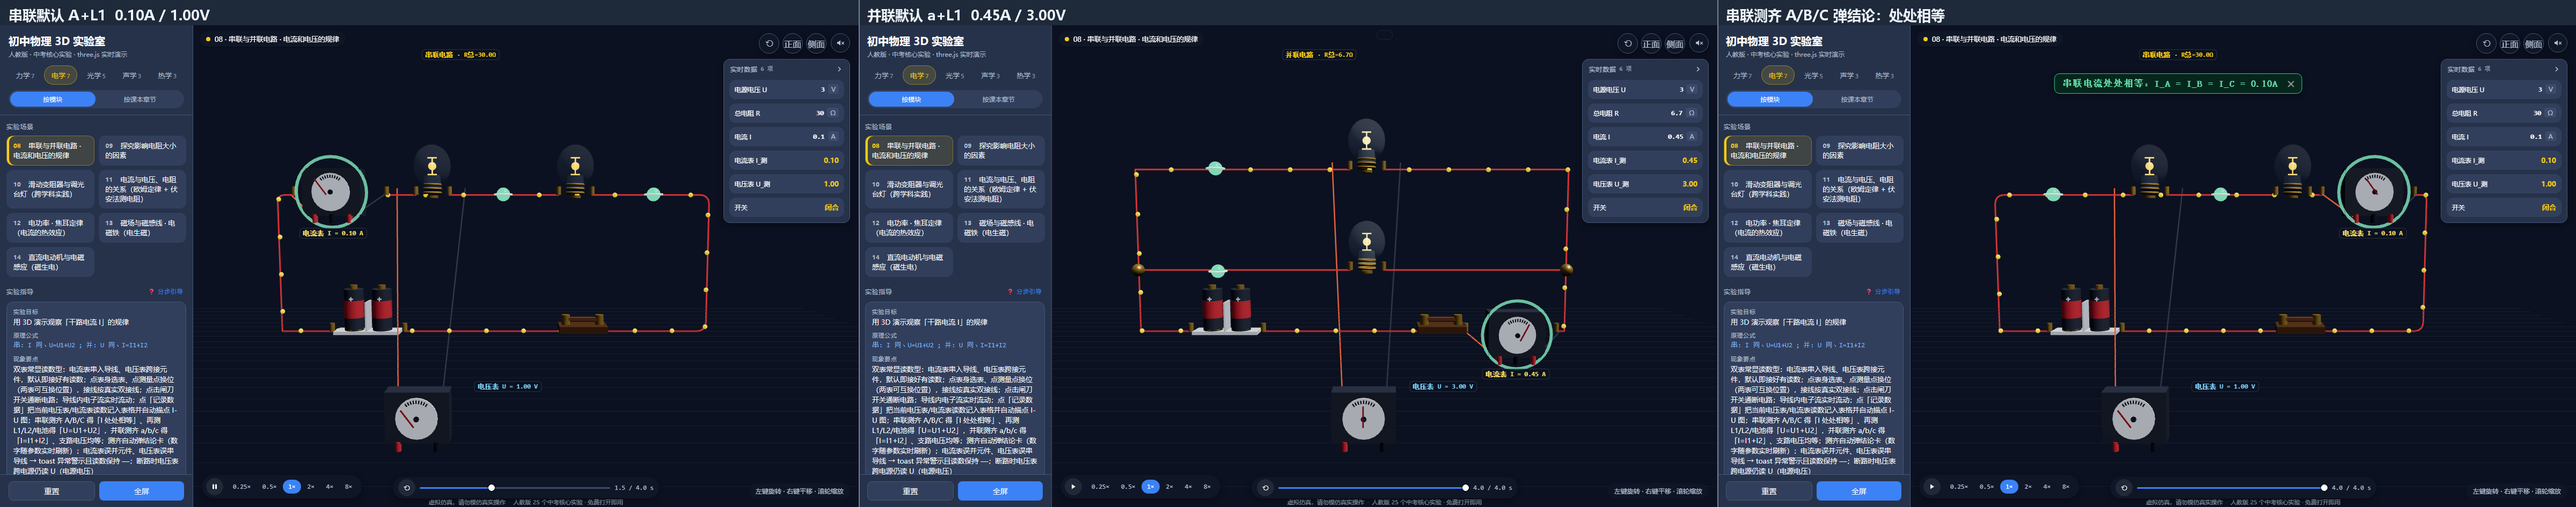
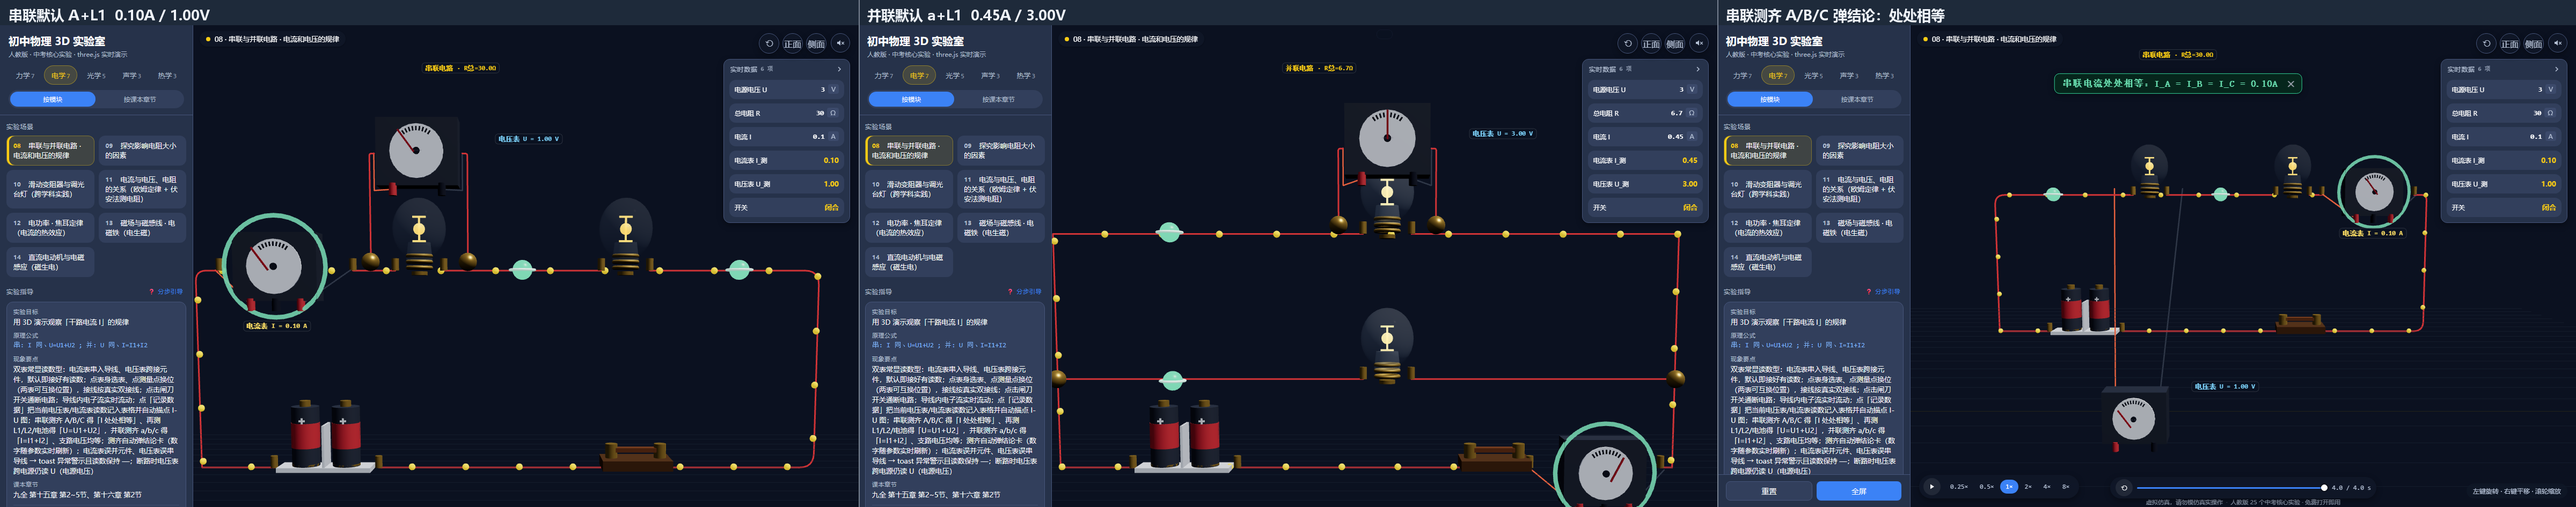
D1(08) voltmeter plane-parallel branch over measured element (spec s13); branch-gap wiring, per-slot clearance; junction dots instanced to keep 60-call budget; probe 73 OK (4 bench asserts pending CEO branch asserts); regress ERRORS 0; ui-probe 115/115; verify-release PASS

diff --git a/docs/app/exp/electricity.js b/docs/app/exp/electricity.js
@@ -242,16 +242,33 @@ const D1 = {
     return { amp: mk('amp'), vol: mk('vol') };
   },
   /* ---------- 仪表摆位与引线 ---------- */
+  // 电压表并联支路几何（规格 §13）：与被测元件同竖直面(z≈0)，正上方矩形支路，表体坐进水平缺口
+  _volBranch(slot) {
+    if (slot !== 'L1' && slot !== 'L2' && slot !== 'batt') return null;
+    let ex, ny, half;
+    if (slot === 'batt') {
+      const b = this.battG.position;
+      ex = b.x; ny = 1.54; half = 0.46;
+    } else {
+      const g = slot === 'L1' ? this.bulb1G : this.bulb2G;
+      ex = g.position.x; ny = g.position.y + 0.06; half = 0.40;
+    }
+    // 抬高量：L1/L2 玻璃泡顶部约高出引线 0.58，表体半高 0.27；串联两槽与并联下支路用 0.88 保证表体与
+    // 下方灯泡可见空隙；并联上支路（L1，y≈3.0，上方还有顶栏「R总」标签）降为 0.62 并靠 z 前移避让
+    // （见 _slotPos）；电池槽 0.62。并联下支路（L2 表体正下方是 L2、正上方是 L1）空间不足，表体 z 微前移。
+    const lift = slot === 'batt' ? 0.62 : (this.p.mode === 'parallel' && slot === 'L1' ? 0.62 : 0.88);
+    return { ex, ny, half, gap: 0.36, bodyX: ex, bodyY: ny + lift, bodyZ: 0 };
+  },
   _slotPos(slot) {
     if (!slot) return null;
     const c = this._slotC(slot);
     if (c) return { bodyX: c.cx, bodyY: c.y + 0.02, bodyZ: 0.22, ends: [new THREE.Vector3(c.cx - 0.55, c.y, 0.1), new THREE.Vector3(c.cx + 0.55, c.y, 0.1)] };
-    if (slot === 'batt') {
-      const b = this.battG.position;
-      return { bodyX: b.x, bodyY: 0.34, bodyZ: 1.10, ends: [new THREE.Vector3(b.x - 0.46, 1.54, 0.1), new THREE.Vector3(b.x + 0.46, 1.54, 0.1)] };
-    }
-    const g = slot === 'L1' ? this.bulb1G : this.bulb2G;
-    return { bodyX: g.position.x, bodyY: 0.34, bodyZ: 1.10, ends: [new THREE.Vector3(g.position.x - 0.40, g.position.y + 0.06, 0.1), new THREE.Vector3(g.position.x + 0.40, g.position.y + 0.06, 0.1)] };
+    const br = this._volBranch(slot);
+    if (br) // 并联 L1 槽（表体上方是顶栏「R总」标签）与并联 L2 槽（正下方 L2、正上方 L1）空间不足，表体 z 微前移避让
+    if (this.p.mode === 'parallel' && slot === 'L2') return { bodyX: br.bodyX, bodyY: br.bodyY, bodyZ: 0.30, branch: true, ends: [new THREE.Vector3(br.ex - br.gap, br.bodyY, 0.02), new THREE.Vector3(br.ex + br.gap, br.bodyY, 0.02)] };
+    if (this.p.mode === 'parallel' && slot === 'L1') return { bodyX: br.bodyX, bodyY: br.bodyY, bodyZ: 0.30, branch: true, ends: [new THREE.Vector3(br.ex - br.gap, br.bodyY, 0.02), new THREE.Vector3(br.ex + br.gap, br.bodyY, 0.02)] };
+    return { bodyX: br.bodyX, bodyY: br.bodyY, bodyZ: 0, branch: true, ends: [new THREE.Vector3(br.ex - br.gap, br.bodyY, 0.02), new THREE.Vector3(br.ex + br.gap, br.bodyY, 0.02)] };
+    return null;
   },
   _layoutMeters() {
     ['amp', 'vol'].forEach(which => {
@@ -265,8 +282,17 @@ const D1 = {
       const pair = this.probes[which];
       const postA = new THREE.Vector3(sp.bodyX - 0.198, sp.bodyY - 0.30, sp.bodyZ + 0.09);
       const postB = new THREE.Vector3(sp.bodyX + 0.198, sp.bodyY - 0.30, sp.bodyZ + 0.09);
-      setFatLine(pair[0], [postA, sp.ends[0]]);
-      setFatLine(pair[1], [postB, sp.ends[1]]);
+      if (sp.branch) {
+        // 并联支路：缺口端点沿表体外侧向下、再横向接表底接线柱（短接线，不另画长表笔）
+        const hookY = sp.bodyY - 0.30;
+        const hookA = new THREE.Vector3(sp.bodyX - 0.36, hookY, 0.02);
+        const hookB = new THREE.Vector3(sp.bodyX + 0.36, hookY, 0.02);
+        setFatLine(pair[0], [postA, hookA, sp.ends[0]]);
+        setFatLine(pair[1], [postB, hookB, sp.ends[1]]);
+      } else {
+        setFatLine(pair[0], [postA, sp.ends[0]]);
+        setFatLine(pair[1], [postB, sp.ends[1]]);
+      }
       pair.forEach(l => { l.visible = true; });
       if (which === 'amp') this.ampLeadEnds = sp.ends; else this.volLeadEnds = sp.ends;
       if (which === 'vol') label.position.set(sp.bodyX + 0.90, sp.bodyY + 0.06, 0.3);  // 电压表读数放表体右侧，避开灯泡光晕与表盘
@@ -472,6 +498,22 @@ const D1 = {
         const dot = new THREE.Mesh(new THREE.SphereGeometry(0.075, 16, 12), MATS.brass());
         dot.position.set(jx, jy, 0.02); this.junctions.push(dot); this.scene.add(dot);
       });
+    }
+    // 电压表并联支路（规格 §13）：主wire两节点竖直向上，水平段在表体处真实断开，表体坐进缺口
+    const vb = (!this.volError) ? this._volBranch(this.volSlot) : null;
+    if (vb) {
+      segs.push([[vb.ex - vb.half, vb.ny], [vb.ex - vb.half, vb.bodyY], [vb.ex - vb.gap, vb.bodyY]]);
+      segs.push([[vb.ex + vb.gap, vb.bodyY], [vb.ex + vb.half, vb.bodyY], [vb.ex + vb.half, vb.ny]]);
+      // 两个支路节点球合并为单个 InstancedMesh（2 实例 = 1 次绘制调用，压低整体调用数）
+      const dotGeo = new THREE.SphereGeometry(0.075, 16, 12);
+      const im = new THREE.InstancedMesh(dotGeo, MATS.brass(), 2);
+      const mm = new THREE.Matrix4();
+      [vb.ex - vb.half, vb.ex + vb.half].forEach((jx, i) => {
+        mm.makeTranslation(jx, vb.ny, 0.02);
+        im.setMatrixAt(i, mm);
+      });
+      im.instanceMatrix.needsUpdate = true;
+      this.junctions.push(im); this.scene.add(im);
     }
     segs.forEach(pts => {
       const w = fatLine(this._roundedPath(pts, 0.12), WIRE, 3);

diff --git a/release/physics-3d-lab/exp/electricity.js b/release/physics-3d-lab/exp/electricity.js
@@ -242,16 +242,33 @@ const D1 = {
     return { amp: mk('amp'), vol: mk('vol') };
   },
   /* ---------- 仪表摆位与引线 ---------- */
+  // 电压表并联支路几何（规格 §13）：与被测元件同竖直面(z≈0)，正上方矩形支路，表体坐进水平缺口
+  _volBranch(slot) {
+    if (slot !== 'L1' && slot !== 'L2' && slot !== 'batt') return null;
+    let ex, ny, half;
+    if (slot === 'batt') {
+      const b = this.battG.position;
+      ex = b.x; ny = 1.54; half = 0.46;
+    } else {
+      const g = slot === 'L1' ? this.bulb1G : this.bulb2G;
+      ex = g.position.x; ny = g.position.y + 0.06; half = 0.40;
+    }
+    // 抬高量：L1/L2 玻璃泡顶部约高出引线 0.58，表体半高 0.27；串联两槽与并联下支路用 0.88 保证表体与
+    // 下方灯泡可见空隙；并联上支路（L1，y≈3.0，上方还有顶栏「R总」标签）降为 0.62 并靠 z 前移避让
+    // （见 _slotPos）；电池槽 0.62。并联下支路（L2 表体正下方是 L2、正上方是 L1）空间不足，表体 z 微前移。
+    const lift = slot === 'batt' ? 0.62 : (this.p.mode === 'parallel' && slot === 'L1' ? 0.62 : 0.88);
+    return { ex, ny, half, gap: 0.36, bodyX: ex, bodyY: ny + lift, bodyZ: 0 };
+  },
   _slotPos(slot) {
     if (!slot) return null;
     const c = this._slotC(slot);
     if (c) return { bodyX: c.cx, bodyY: c.y + 0.02, bodyZ: 0.22, ends: [new THREE.Vector3(c.cx - 0.55, c.y, 0.1), new THREE.Vector3(c.cx + 0.55, c.y, 0.1)] };
-    if (slot === 'batt') {
-      const b = this.battG.position;
-      return { bodyX: b.x, bodyY: 0.34, bodyZ: 1.10, ends: [new THREE.Vector3(b.x - 0.46, 1.54, 0.1), new THREE.Vector3(b.x + 0.46, 1.54, 0.1)] };
-    }
-    const g = slot === 'L1' ? this.bulb1G : this.bulb2G;
-    return { bodyX: g.position.x, bodyY: 0.34, bodyZ: 1.10, ends: [new THREE.Vector3(g.position.x - 0.40, g.position.y + 0.06, 0.1), new THREE.Vector3(g.position.x + 0.40, g.position.y + 0.06, 0.1)] };
+    const br = this._volBranch(slot);
+    if (br) // 并联 L1 槽（表体上方是顶栏「R总」标签）与并联 L2 槽（正下方 L2、正上方 L1）空间不足，表体 z 微前移避让
+    if (this.p.mode === 'parallel' && slot === 'L2') return { bodyX: br.bodyX, bodyY: br.bodyY, bodyZ: 0.30, branch: true, ends: [new THREE.Vector3(br.ex - br.gap, br.bodyY, 0.02), new THREE.Vector3(br.ex + br.gap, br.bodyY, 0.02)] };
+    if (this.p.mode === 'parallel' && slot === 'L1') return { bodyX: br.bodyX, bodyY: br.bodyY, bodyZ: 0.30, branch: true, ends: [new THREE.Vector3(br.ex - br.gap, br.bodyY, 0.02), new THREE.Vector3(br.ex + br.gap, br.bodyY, 0.02)] };
+    return { bodyX: br.bodyX, bodyY: br.bodyY, bodyZ: 0, branch: true, ends: [new THREE.Vector3(br.ex - br.gap, br.bodyY, 0.02), new THREE.Vector3(br.ex + br.gap, br.bodyY, 0.02)] };
+    return null;
   },
   _layoutMeters() {
     ['amp', 'vol'].forEach(which => {
@@ -265,8 +282,17 @@ const D1 = {
       const pair = this.probes[which];
       const postA = new THREE.Vector3(sp.bodyX - 0.198, sp.bodyY - 0.30, sp.bodyZ + 0.09);
       const postB = new THREE.Vector3(sp.bodyX + 0.198, sp.bodyY - 0.30, sp.bodyZ + 0.09);
-      setFatLine(pair[0], [postA, sp.ends[0]]);
-      setFatLine(pair[1], [postB, sp.ends[1]]);
+      if (sp.branch) {
+        // 并联支路：缺口端点沿表体外侧向下、再横向接表底接线柱（短接线，不另画长表笔）
+        const hookY = sp.bodyY - 0.30;
+        const hookA = new THREE.Vector3(sp.bodyX - 0.36, hookY, 0.02);
+        const hookB = new THREE.Vector3(sp.bodyX + 0.36, hookY, 0.02);
+        setFatLine(pair[0], [postA, hookA, sp.ends[0]]);
+        setFatLine(pair[1], [postB, hookB, sp.ends[1]]);
+      } else {
+        setFatLine(pair[0], [postA, sp.ends[0]]);
+        setFatLine(pair[1], [postB, sp.ends[1]]);
+      }
       pair.forEach(l => { l.visible = true; });
       if (which === 'amp') this.ampLeadEnds = sp.ends; else this.volLeadEnds = sp.ends;
       if (which === 'vol') label.position.set(sp.bodyX + 0.90, sp.bodyY + 0.06, 0.3);  // 电压表读数放表体右侧，避开灯泡光晕与表盘
@@ -472,6 +498,22 @@ const D1 = {
         const dot = new THREE.Mesh(new THREE.SphereGeometry(0.075, 16, 12), MATS.brass());
         dot.position.set(jx, jy, 0.02); this.junctions.push(dot); this.scene.add(dot);
       });
+    }
+    // 电压表并联支路（规格 §13）：主wire两节点竖直向上，水平段在表体处真实断开，表体坐进缺口
+    const vb = (!this.volError) ? this._volBranch(this.volSlot) : null;
+    if (vb) {
+      segs.push([[vb.ex - vb.half, vb.ny], [vb.ex - vb.half, vb.bodyY], [vb.ex - vb.gap, vb.bodyY]]);
+      segs.push([[vb.ex + vb.gap, vb.bodyY], [vb.ex + vb.half, vb.bodyY], [vb.ex + vb.half, vb.ny]]);
+      // 两个支路节点球合并为单个 InstancedMesh（2 实例 = 1 次绘制调用，压低整体调用数）
+      const dotGeo = new THREE.SphereGeometry(0.075, 16, 12);
+      const im = new THREE.InstancedMesh(dotGeo, MATS.brass(), 2);
+      const mm = new THREE.Matrix4();
+      [vb.ex - vb.half, vb.ex + vb.half].forEach((jx, i) => {
+        mm.makeTranslation(jx, vb.ny, 0.02);
+        im.setMatrixAt(i, mm);
+      });
+      im.instanceMatrix.needsUpdate = true;
+      this.junctions.push(im); this.scene.add(im);
     }
     segs.forEach(pts => {
       const w = fatLine(this._roundedPath(pts, 0.12), WIRE, 3);

diff --git a/release/physics-3d-lab/sw.js b/release/physics-3d-lab/sw.js
@@ -1,5 +1,5 @@
 /* Service Worker：整站本地缓存 —— 打开过一次后，全部资源走本地缓存，秒开、断网也能用。
- * 版本号 854c6c4 由 tools/make-release.ps1 在发布时替换为 git 短哈希：
+ * 版本号 4f5125a 由 tools/make-release.ps1 在发布时替换为 git 短哈希：
  * 每次发布自动换缓存名；新 SW 安装完成后清掉旧缓存，保证新旧版本绝不混用。
  * 策略（为发布一致性 + 跨境提速而设计）：
  *   - 安装：容错 precache 核心清单（某项失败不影响整体安装），skipWaiting 立即接管
@@ -8,7 +8,7 @@
  *     「新 HTML + 旧 JS」的混合状态（发布后第一次打开仍是旧版，刷新一次即新版）
  *   - 其他同源 GET：cache-first，miss 才走网络并写入缓存
  */
-const VERSION = '854c6c4';
+const VERSION = '4f5125a';
 const CACHE = 'phlab-' + VERSION;
 
 const PRECACHE = [

diff --git a/release/physics-3d-lab/index.html b/release/physics-3d-lab/index.html
@@ -4,7 +4,7 @@
 <meta charset="utf-8">
 <meta name="viewport" content="width=device-width, initial-scale=1">
 <title>初中物理 3D 可视化实验室</title>
-<meta name="build-version" content="854c6c4">
+<meta name="build-version" content="4f5125a">
 <link rel="icon" href="data:,">
 <script type="importmap">
 { "imports": { "three": "./vendor/three.module.js", "three/addons/": "./vendor/addons/" } }

diff --git a/docs/design/D1-08-重做规格.md b/docs/design/D1-08-重做规格.md
@@ -149,3 +149,17 @@ tapPoint(id) / selectMeter('amp'|'vol')       // 保留旧语义
 ## 12. 不做
 
 - 不动其他实验、不改全站布局/主题、不加登录、不用 CDN；不改 D1 的 duration/粒子动画逻辑（duration=4 保留）。
+
+## 13. 增补：电压表改「并联支路」画法（复刻参考平面图，用户 2026-11-26 两张对照图）
+
+背景：参考站平面图里电压表不是孤零零立在灯泡上方、也不是放到台面拉长引线，而是在被测元件正上方画一个**矩形并联支路**：主导线在元件左右各有一个节点，支路从节点竖直向上→水平经过电压表→竖直向下回到另一节点。用户要求把这套平面拓扑复刻成 3D。**取代**上一轮「表体落前方台面（bodyY=0.34, bodyZ=1.10）+ 长引线」方案。
+
+1. 电压表接 L1/L2/batt 时，在与主电路同一竖直面（z≈0）内、被测元件正上方画矩形并联支路：
+   - 主wire节点：元件左右接点（L1/L2 用现有 ends=(ex±0.40, ey+0.06)；batt 用 (bx±0.46, 1.54)），节点画现有黄色实心连接点。
+   - 支路：左节点竖直向上 0.62 → 水平段在电压表处**真实断开**（缺口半宽 0.36，表体宽 0.66 坐进缺口）→ 右端竖直向下回右节点。全部横平竖直、统一圆角，与主wire同色同粗。
+   - 表体中心 = (ex, 节点y+0.62, 0)；两接线柱接缺口左右两端（复用 postA/postB→ends 机制，ends 改为缺口端点），**不再另画表笔引线**。
+2. 电压表不在该槽时不画支路；元件本体仍可点选。电流槽 A/B/C/a/b/c 的串入式画法一律不动。
+3. 读数标签仍在表体右侧 (bodyX+0.90, bodyY+0.06)，同平面；不得压灯泡光晕/表盘/顶栏文字。
+4. 取景与顶栏：并联 L1 支路顶约 y≈3.9，顶栏 lbl 现在 y=4.0——若重叠把 lbl 上移或 CAM 微调，保证默认视图支路、两表、顶栏都完整可见且不叠字。
+5. 验收断言替换（CEO 探针同步改）：电压表体 y > 被测元件 y（在元件上方支路里）、|z| < 0.3（与主电路同面）；支路缺口 crossingSegments=0；主wire上两节点存在；leadEnds 距离≈0.72（缺口两端）。原「表体低于灯泡/在前方台面」4 条断言作废删除。
+6. 其余（读数/误接/记录/结论/换槽互换/buildCircuit 重建）全部沿用现版，不改。

diff --git a/docs/app/ui-probe-report.md b/docs/app/ui-probe-report.md
@@ -1,6 +1,6 @@
 # UI→引擎通路探针报告
 
-时间：2026-11-26T08:02:28.844Z
+时间：2026-11-26T09:20:35.825Z
 方法：包裹每个实验的 exp.onParam 计数；滑杆用原生 input 事件、枚举用真实点击驱动；每控件触发后等 2 帧再读计数。
 
 | 实验 | 控件 | 类型 | onParam 送达 | 判定 |
